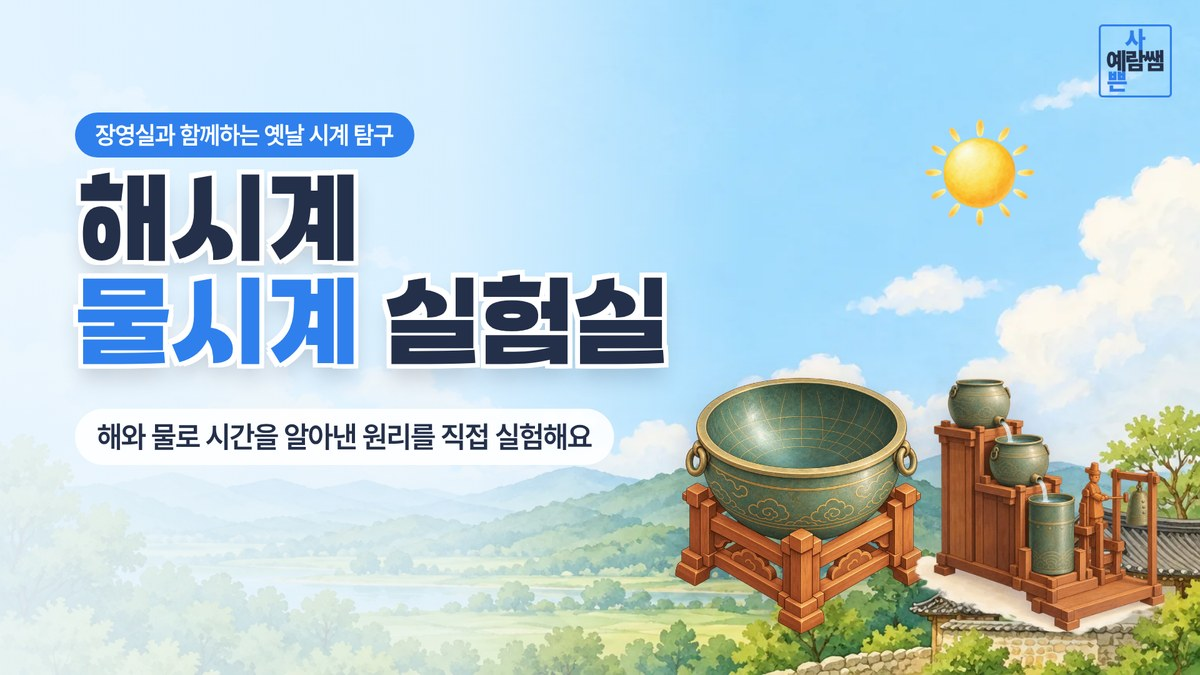
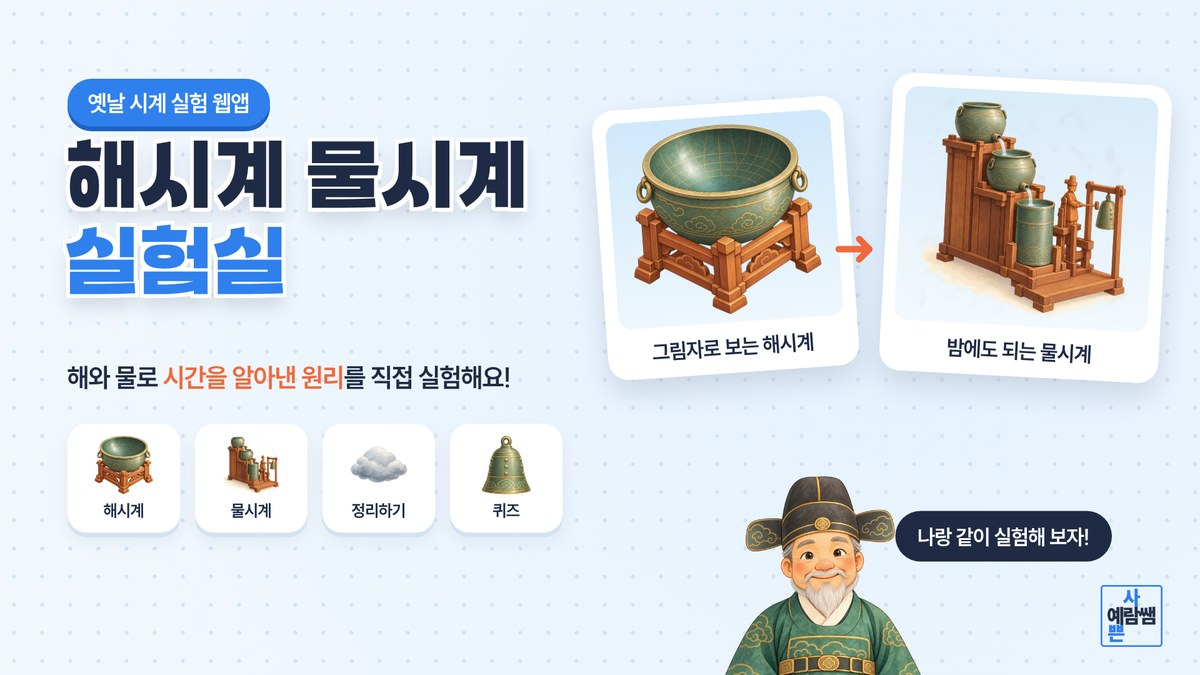
해시계 물시계 실험실: 미리보기 썸네일 새 디자인
Claude-Session: https://claude.ai/code/session_01GAFtknxin5dqaLmzsWyvyg

diff --git a/sundial/index.html b/sundial/index.html
@@ -1,5 +1,5 @@
 <!doctype html>
-<html lang="ko"><head><meta charset="utf-8"><meta name="viewport" content="width=device-width,initial-scale=1,viewport-fit=cover"><meta property="og:title" content="해시계 물시계 실험실"><meta property="og:description" content="장영실과 함께 해시계와 물시계의 원리를 실험해 봐요."><meta property="og:type" content="website"><meta property="og:url" content="https://dpfkadpfka.github.io/jangyeongsil-clock/sundial/"><meta property="og:image" content="https://dpfkadpfka.github.io/jangyeongsil-clock/sundial/images/og.jpg"><meta property="og:image:width" content="1200"><meta property="og:image:height" content="675"><meta property="og:image:alt" content="해시계 물시계 실험실"><meta name="twitter:card" content="summary_large_image"><meta name="twitter:image" content="https://dpfkadpfka.github.io/jangyeongsil-clock/sundial/images/og.jpg"><meta name="description" content="장영실과 함께 해시계와 물시계의 원리를 실험해 봐요.">
+<html lang="ko"><head><meta charset="utf-8"><meta name="viewport" content="width=device-width,initial-scale=1,viewport-fit=cover"><meta property="og:title" content="해시계 물시계 실험실"><meta property="og:description" content="장영실과 함께 해시계와 물시계의 원리를 실험해 봐요."><meta property="og:type" content="website"><meta property="og:url" content="https://dpfkadpfka.github.io/jangyeongsil-clock/sundial/"><meta property="og:image" content="https://dpfkadpfka.github.io/jangyeongsil-clock/sundial/images/og.jpg?v=2"><meta property="og:image:width" content="1200"><meta property="og:image:height" content="675"><meta property="og:image:alt" content="해시계 물시계 실험실"><meta name="twitter:card" content="summary_large_image"><meta name="twitter:image" content="https://dpfkadpfka.github.io/jangyeongsil-clock/sundial/images/og.jpg?v=2"><meta name="description" content="장영실과 함께 해시계와 물시계의 원리를 실험해 봐요.">
 <link rel="icon" type="image/png" href="favicon.png?v=yr1"><title>해시계 물시계 실험실</title>
 <meta name="claude:viewport-fit-sides" content="cover">
 <style>
